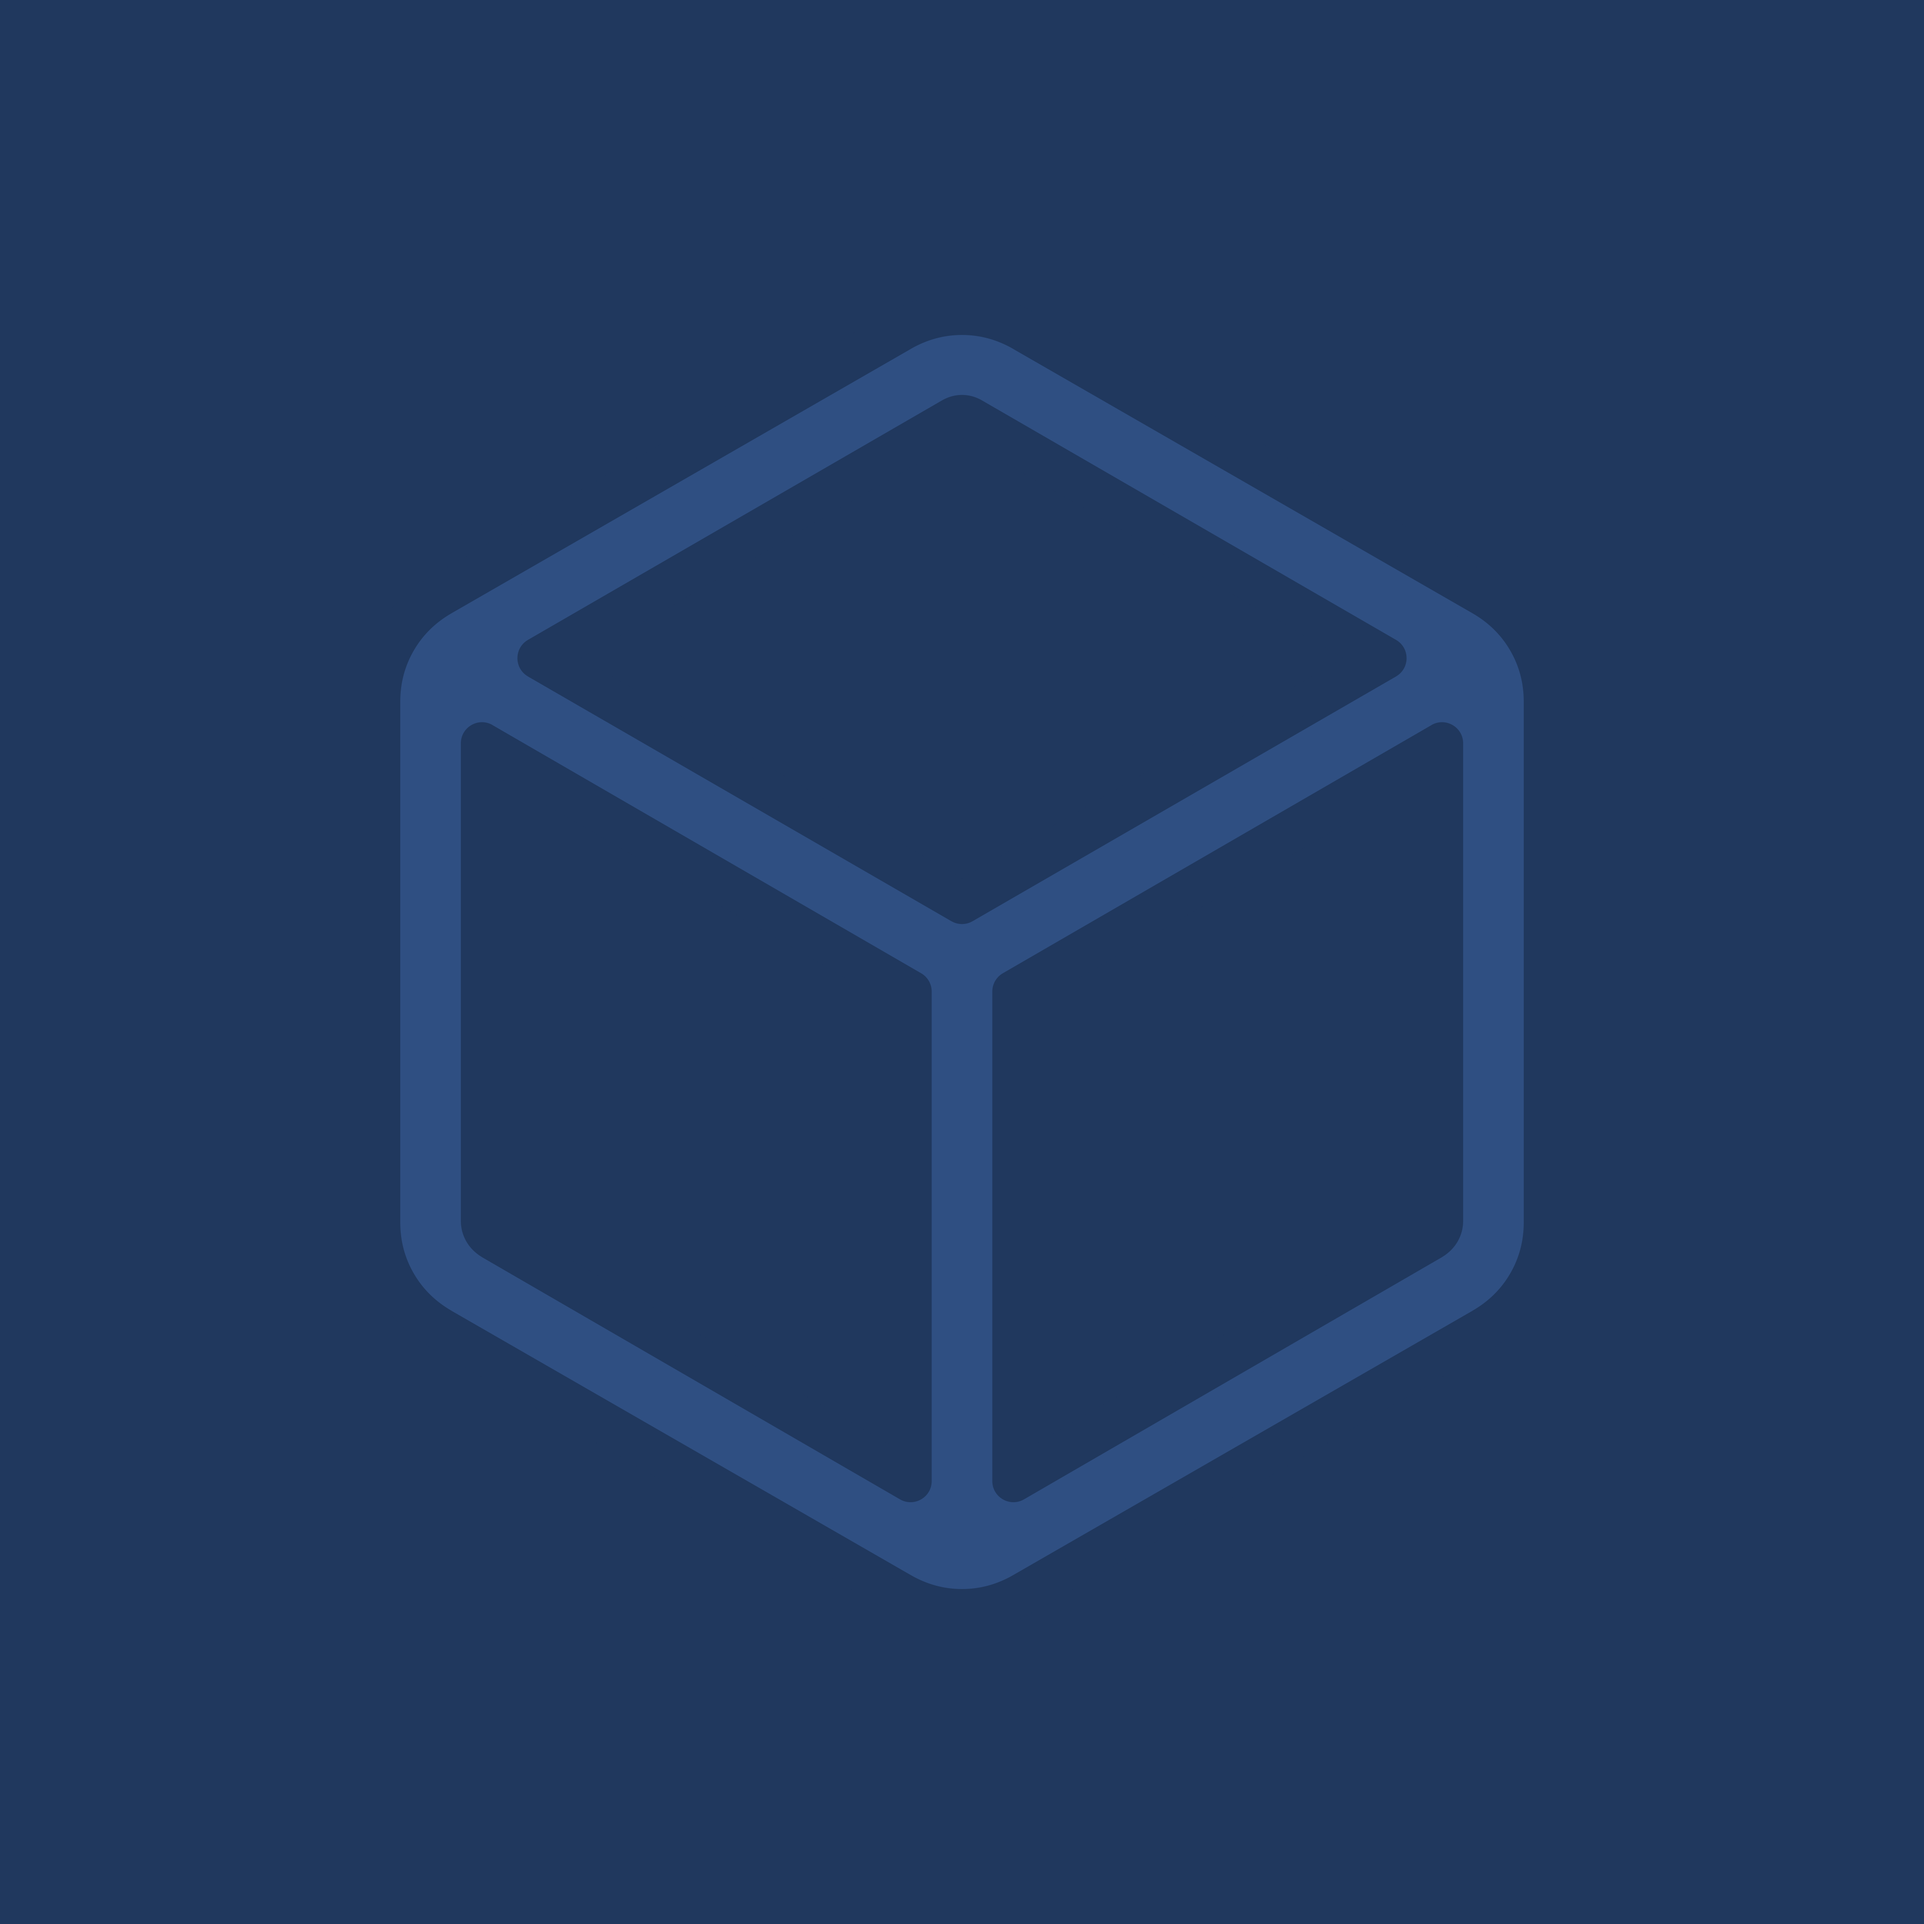
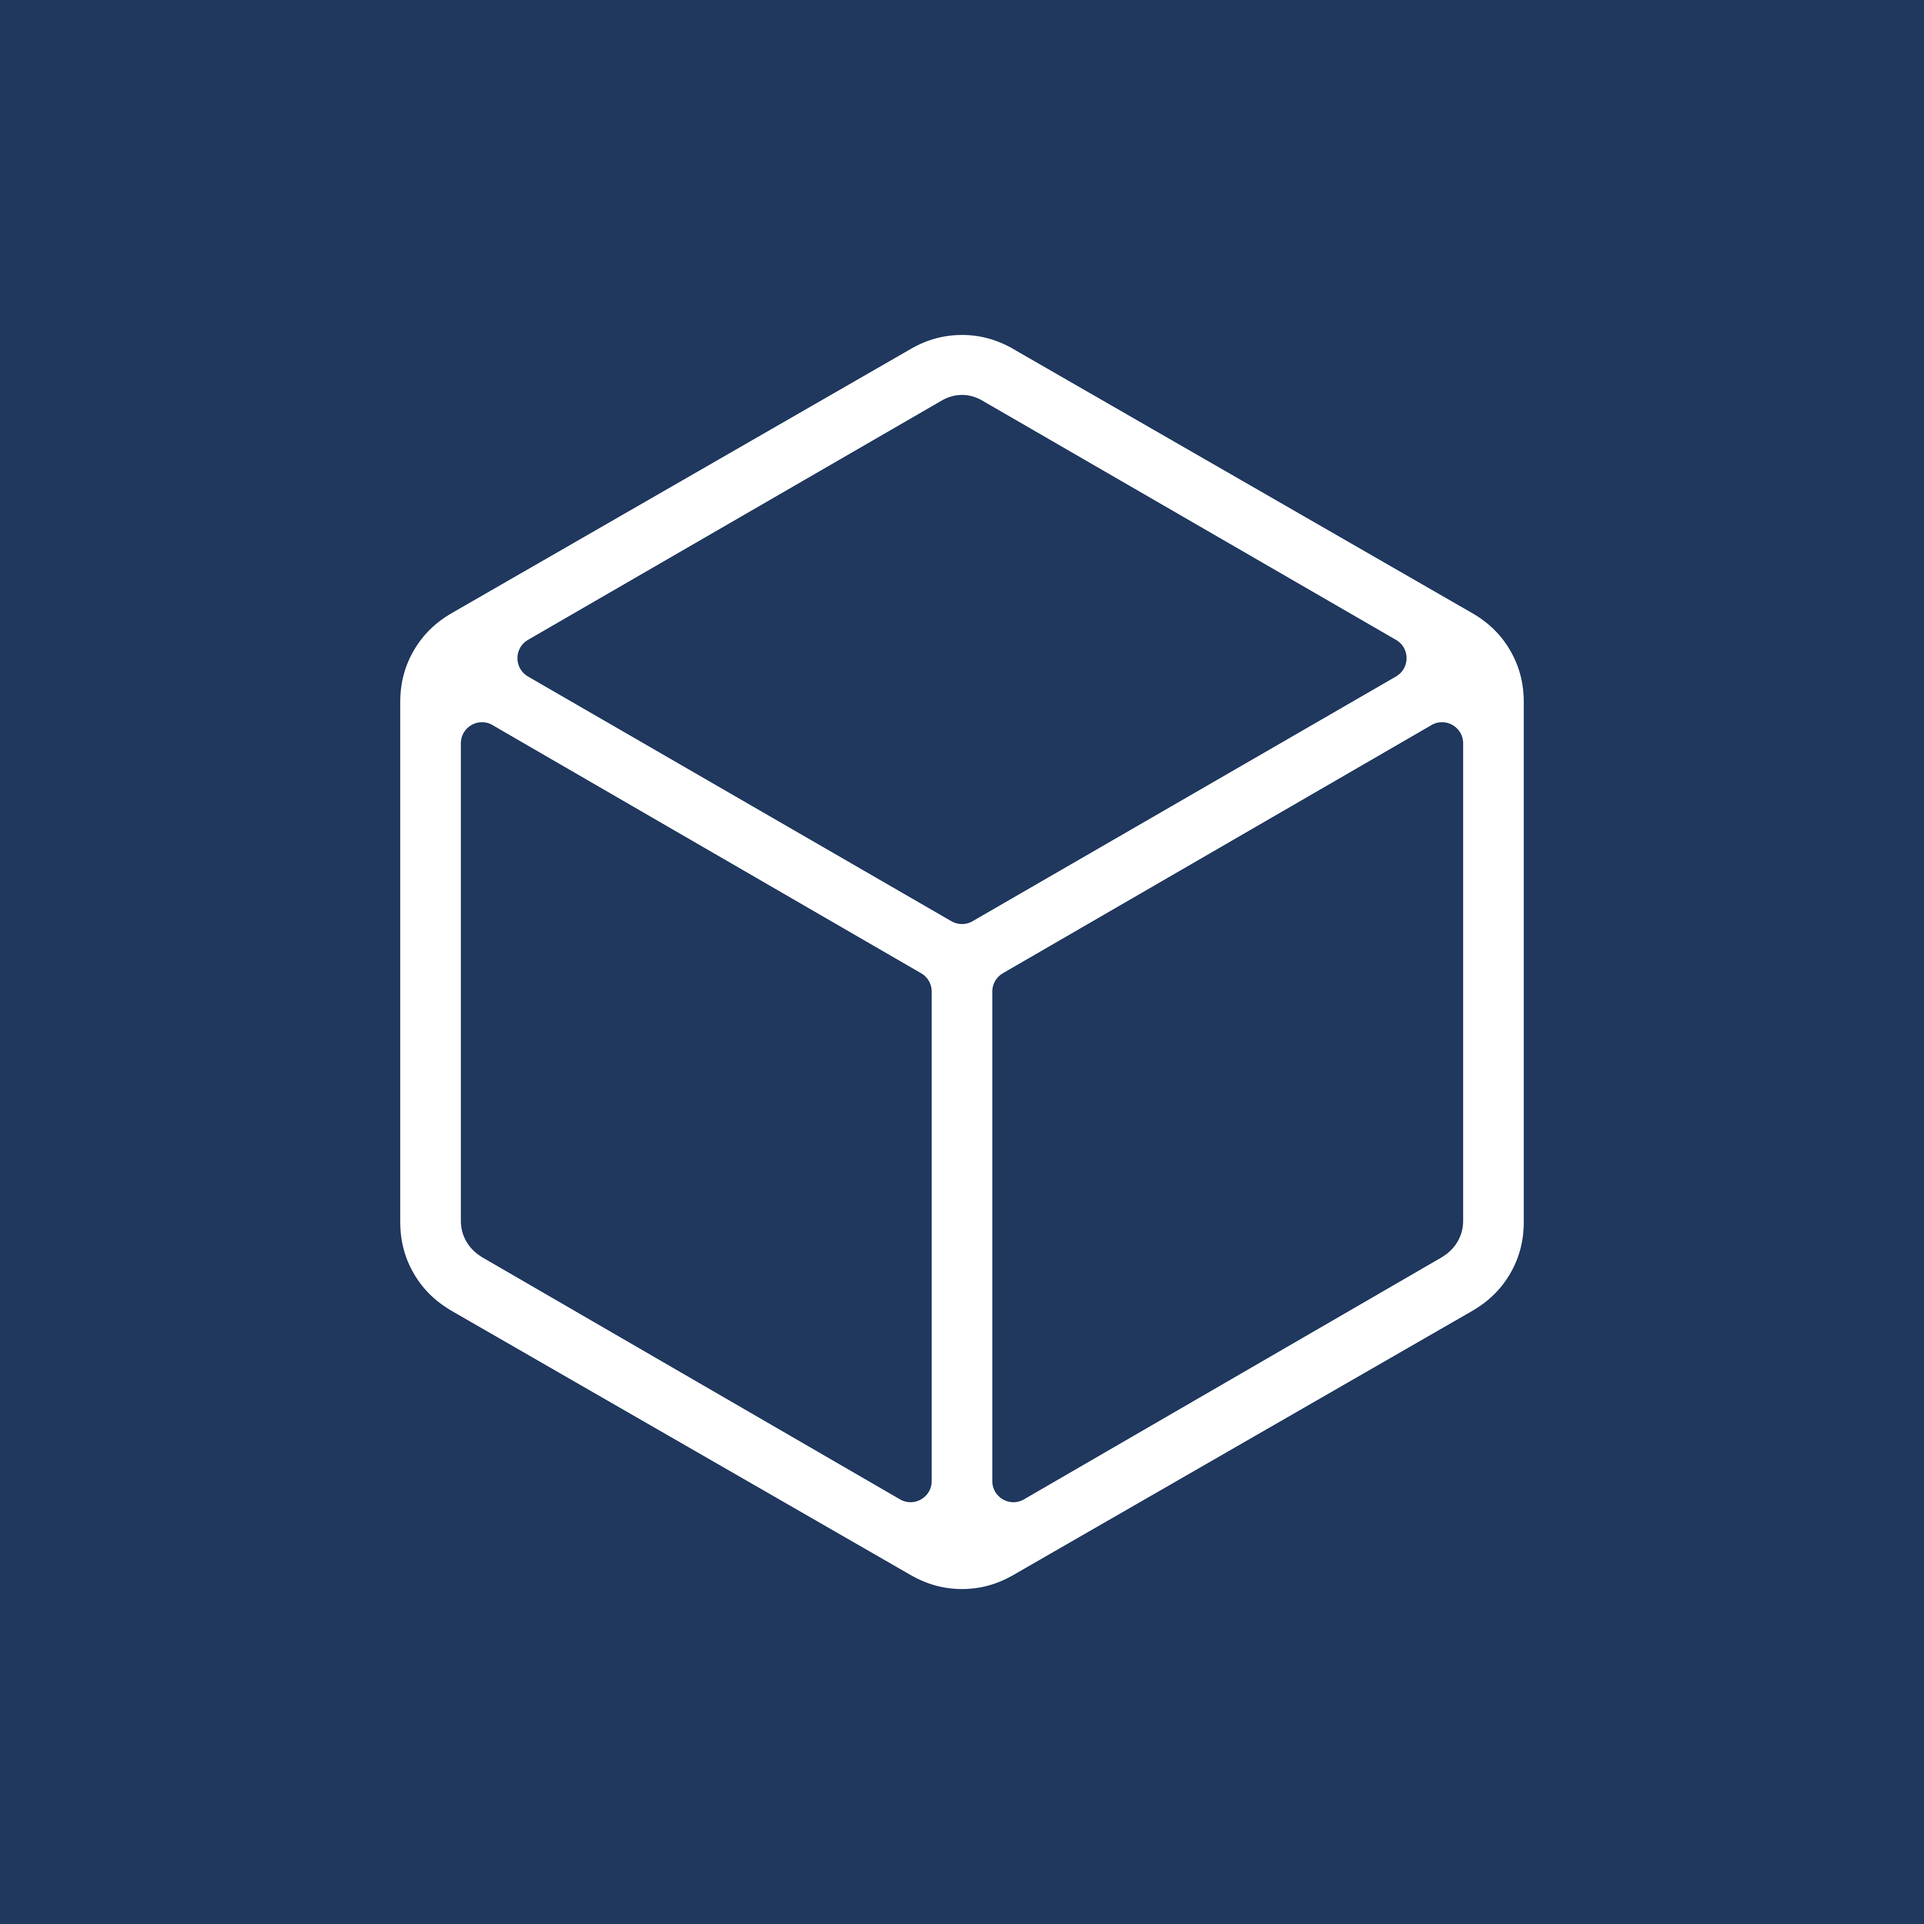
update

Changed region(s): [[0.1875, 0.1562, 0.8125, 0.8438]]

diff --git a/src/interface/theme.css b/src/interface/theme.css
@@ -1,6 +1,9 @@
 :root {
   --d-cssvar-maincolor: #20385e;
-/* #2f4f82 */
+  --d-cssvar-maincolor-r: 32;
+  --d-cssvar-maincolor-g: 56;
+  --d-cssvar-maincolor-b: 94;
+
   --d-cssvar-fafafd: #fafafd;
   --d-cssvar-fafafd-r: 250;
   --d-cssvar-fafafd-g: 250;
